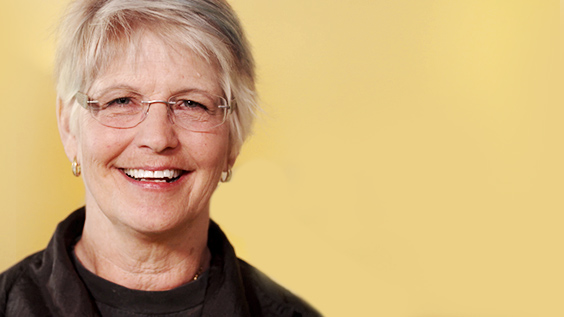
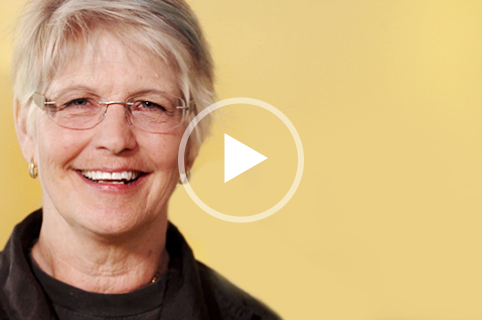
Update video thumbnails in dg page

diff --git a/src/pages/dog-grooming-courses/dog-grooming/index.tsx b/src/pages/dog-grooming-courses/dog-grooming/index.tsx
@@ -19,20 +19,22 @@ import DogGroomingBackground from '../../../images/backgrounds/dog-grooming.jpg'
 import DogCourseMaterialsImage from '../../../images/dg-course-materials-manuals-kit-white.jpg';
 import GroomingKitDetailImage from '../../../images/grooming-kit-details.jpg';
 import CertificationGoldImage from '../../../images/IDGP-certification-gold.svg';
-import MasterGroomerLisaImage from '../../../images/lisa-video-thumbnail.png';
+import MasterGroomerLisaImage from '../../../images/lisa-video-thumbnail.jpg';
 import MovieClapperImage from '../../../images/movie-clapper.svg';
 import OutlineImage from '../../../images/outline.svg';
-import MasterGroomerPaddyImage from '../../../images/paddy-video-thumbnail.png';
+import MasterGroomerPaddyImage from '../../../images/paddy-video-thumbnail.jpg';
 import PlayBtnImage from '../../../images/play-btn.svg';
 import { formatPrice } from '../../../lib/formatPrice';
 
 const headerIconSize = 20;
 const iconSize = 36;
 
+const courseCodes = [ 'dg' ];
+
 const DogGroomingPage: NextPage = () => {
   const screenWidth = useScreenWidth();
   const location = useLocation();
-  const price = usePrice([ 'dg' ], location?.countryCode, location?.provinceCode);
+  const price = usePrice(courseCodes, location?.countryCode, location?.provinceCode);
   const [ kitPopupVisible, kitPopupToggle ] = useToggle();
   const [ trailerPopupVisible, trailerPopupToggle ] = useToggle();
   const [ lisaPopupVisible, lisaPopupToggle ] = useToggle();
@@ -105,7 +107,7 @@ const DogGroomingPage: NextPage = () => {
         </div>
       </section>
 
-      <PriceSection courses={[ 'dg' ]} doubleGuarantee={true} />
+      <PriceSection courses={courseCodes} doubleGuarantee={true} />
 
       <section>
         <div className="container text-center">
@@ -207,9 +209,9 @@ const DogGroomingPage: NextPage = () => {
               </div>
             </div>
             <div className="col-12 col-lg-6 d-flex flex-column justify-content-around">
-              <div className="d-flex align-items-center">
+              <div className="d-flex align-items-center mb-lg-4">
                 <div className="me-4">
-                  <button onClick={lisaPopupToggle} className="btn btn-link"><Image src={MasterGroomerLisaImage} alt="Master Groomer Lisa" width="230" height="150" /></button>
+                  <button onClick={lisaPopupToggle} className="btn btn-link"><div className="imageShadowWrapper"><Image src={MasterGroomerLisaImage} alt="Master Groomer Lisa" width="250" height="166" placeholder="blur" /></div></button>
                 </div>
                 <div className="d-flex flex-column">
                   <h3>Lisa Day</h3>
@@ -220,7 +222,7 @@ const DogGroomingPage: NextPage = () => {
               {!lgOrGreater && <div className="mb-4" />}
               <div className="d-flex align-items-center">
                 <div className="me-4">
-                  <button onClick={paddyPopupToggle} className="btn btn-link"><Image src={MasterGroomerPaddyImage} alt="Master Groomer Paddy" width="230" height="150" /></button>
+                  <button onClick={paddyPopupToggle} className="btn btn-link"><div className="imageShadowWrapper"><Image src={MasterGroomerPaddyImage} alt="Master Groomer Paddy" width="250" height="166" placeholder="blur" /></div></button>
                 </div>
                 <div className="d-flex flex-column">
                   <h3>Paddy Gaffney</h3>
@@ -235,7 +237,7 @@ const DogGroomingPage: NextPage = () => {
           <Modal.Header closeButton>Lisa Day</Modal.Header>
           <Modal.Body>
             <div className="ratio ratio-16x9">
-              <video controls autoPlay preload="metadata">
+              <video controls autoPlay>
                 <source src="https://89b45d42c17e11dd3d57-62a1fc0bf60a98e1d5e980348a7de3b7.ssl.cf1.rackcdn.com/interview-lisa.mp4" type="video/mp4" />
               </video>
             </div>
@@ -245,7 +247,7 @@ const DogGroomingPage: NextPage = () => {
           <Modal.Header closeButton>Paddy Gaffney</Modal.Header>
           <Modal.Body>
             <div className="ratio ratio-16x9">
-              <video controls autoPlay preload="metadata">
+              <video controls autoPlay>
                 <source src="https://89b45d42c17e11dd3d57-62a1fc0bf60a98e1d5e980348a7de3b7.ssl.cf1.rackcdn.com/interview-paddy.mp4" type="video/mp4" />
               </video>
             </div>
@@ -257,6 +259,9 @@ const DogGroomingPage: NextPage = () => {
         .tutionButton { padding: 0; border: none; margin: 0 0 1rem; font-style: italic; background: none; color: white; font-weight: 300; }
         #outlineSection { background-color: #f7f7f7 !important; }
         .courseContentIcon { color: #ccc; margin-bottom: 0.5rem; }
+        .imageShadowWrapper {
+          padding-right: 12px; // to offset the shadow
+        }
       `}</style>
 
     </DefaultLayout>

diff --git a/src/styles/global.scss b/src/styles/global.scss
@@ -553,3 +553,12 @@ ul.list-style-none, ol.list-style-none {
     }
   }
 }
+
+.imageShadowWrapper {
+  span {
+      overflow: visible !important;
+  }
+  img {
+    box-shadow: 12px 12px 12px 0 rgba(0, 0, 0, 0.10);
+  }
+}
